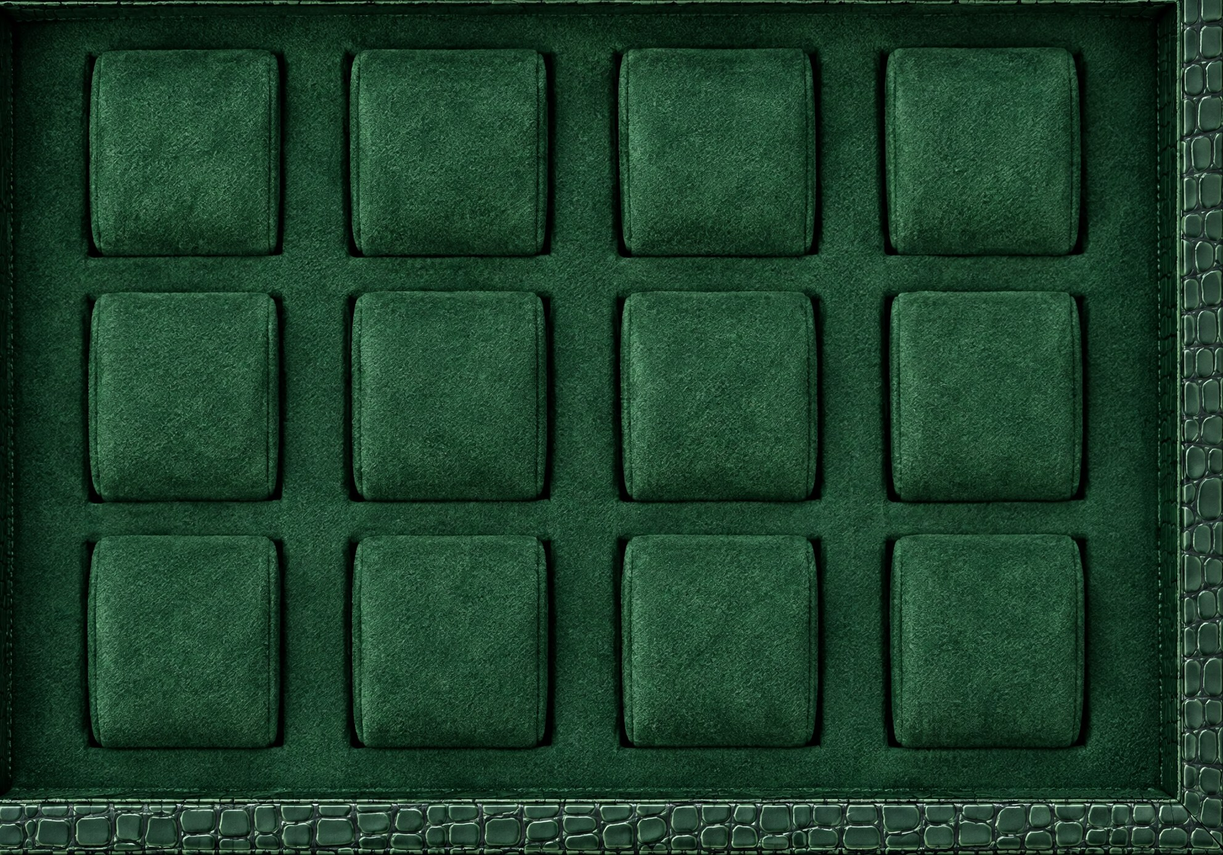
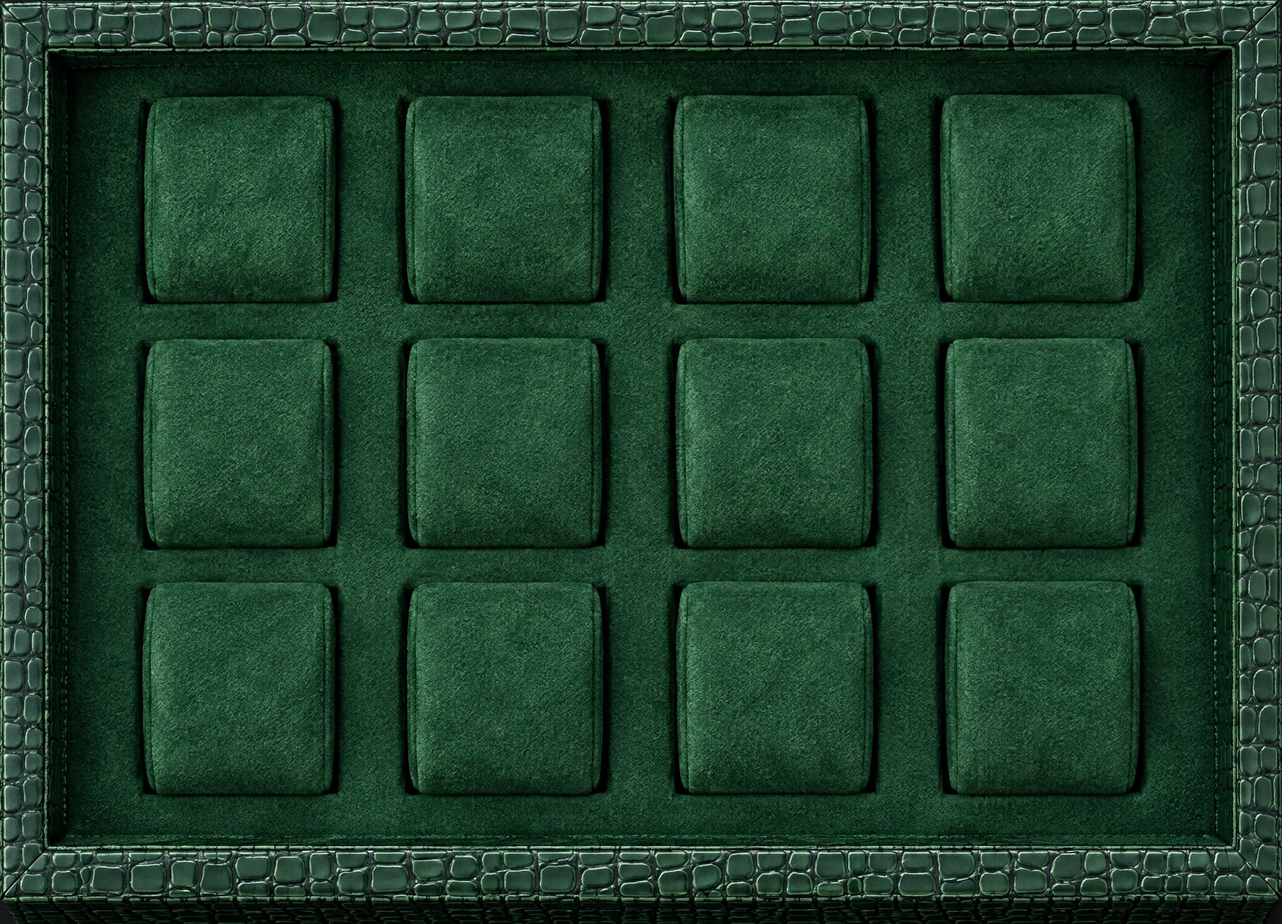
Estuche completo: marco en los cuatro lados y presentado como objeto
- Recorte de las imágenes justo al borde del marco de cuero (antes se perdían
  los lados superior e izquierdo y parecía un trozo de una caja mayor).
- Cada estuche tiene su ancho máximo y se muestra centrado, con aire, halo de
  luz y sombra.

diff --git a/src/lib/cases.ts b/src/lib/cases.ts
@@ -13,6 +13,9 @@ export type CaseLayout = {
   // Cuánto puede sobresalir el brazalete por arriba y por abajo del cojín, en % de su alto,
   // sin pisar el cojín vecino (depende del espacio entre filas de cada estuche)
   reach: number;
+  // Ancho máximo en pantalla (px): el estuche se ve entero, como un objeto, y el
+  // de 4 se percibe más pequeño que el de 12
+  maxWidth: number;
 };
 
 const px = (x: number, y: number, w: number, h: number, W: number, H: number): Slot => ({
@@ -31,28 +34,31 @@ const grid = (crop: [number, number, number, number], xs: number[], ys: number[]
 const CASE_4: CaseLayout = {
   id: "case-4",
   image: "/cases/case-4.jpg",
-  width: 2233,
-  height: 777,
-  slots: grid([255, 208, 2233, 777], [375, 893, 1417, 1937], [308], 375, 520),
+  width: 2436,
+  height: 944,
+  slots: grid([127, 94, 2436, 944], [375, 893, 1417, 1937], [308], 375, 520),
   reach: 7,
+  maxWidth: 880,
 };
 
 const CASE_6: CaseLayout = {
   id: "case-6",
   image: "/cases/case-6.jpg",
-  width: 1689,
-  height: 995,
-  slots: grid([181, 165, 1689, 995], [376, 861, 1339], [270, 709], 322, 350),
+  width: 1796,
+  height: 1157,
+  slots: grid([128, 105, 1796, 1157], [376, 861, 1339], [270, 709], 322, 350),
   reach: 7,
+  maxWidth: 820,
 };
 
 const CASE_12: CaseLayout = {
   id: "case-12",
   image: "/cases/case-12.jpg",
-  width: 1984,
-  height: 1387,
-  slots: grid([219, 183, 1984, 1387], [366, 792, 1227, 1662], [268, 652, 1045], 300, 335),
+  width: 2079,
+  height: 1499,
+  slots: grid([130, 107, 2079, 1499], [366, 792, 1227, 1662], [268, 652, 1045], 300, 335),
   reach: 6,
+  maxWidth: 1040,
 };
 
 export const CASES: CaseLayout[] = [CASE_4, CASE_6, CASE_12];

diff --git a/src/components/CollectionCase.tsx b/src/components/CollectionCase.tsx
@@ -29,24 +29,29 @@ export function CollectionCase({ watches, lang, dict }: { watches: Watch[]; lang
   }
 
   return (
-    <div className="space-y-16">
+    <div className="space-y-6">
       {cases.map(({ layout, items }, i) => (
+        // El estuche se presenta entero sobre la "mesa": centrado, con aire y un halo de luz
         <div
           key={`${layout.id}-${i}`}
-          className="relative mx-auto max-w-6xl overflow-hidden shadow-[0_40px_80px_-20px_rgba(0,0,0,0.8)]"
-          style={{ aspectRatio: `${layout.width} / ${layout.height}` }}
+          className="bg-[radial-gradient(ellipse_60%_55%_at_50%_50%,rgba(31,58,45,0.55),transparent_75%)] px-2 py-12 sm:px-8 sm:py-16"
+        >
+        <div
+          className="relative mx-auto w-full overflow-hidden rounded-[6px] shadow-[0_45px_70px_-25px_rgba(0,0,0,0.95),0_0_0_1px_rgba(0,0,0,0.4)]"
+          style={{ aspectRatio: `${layout.width} / ${layout.height}`, maxWidth: layout.maxWidth }}
         >
           <Image
             src={layout.image}
             alt=""
             fill
             priority={i === 0}
-            sizes="(min-width: 1152px) 1152px, 100vw"
+            sizes={`(min-width: ${layout.maxWidth}px) ${layout.maxWidth}px, 100vw`}
             className="object-cover"
           />
           {items.map((watch, s) => (
             <CaseSlot key={watch.slug} watch={watch} slot={layout.slots[s]} reach={layout.reach} lang={lang} dict={dict} />
           ))}
+        </div>
         </div>
       ))}
     </div>
